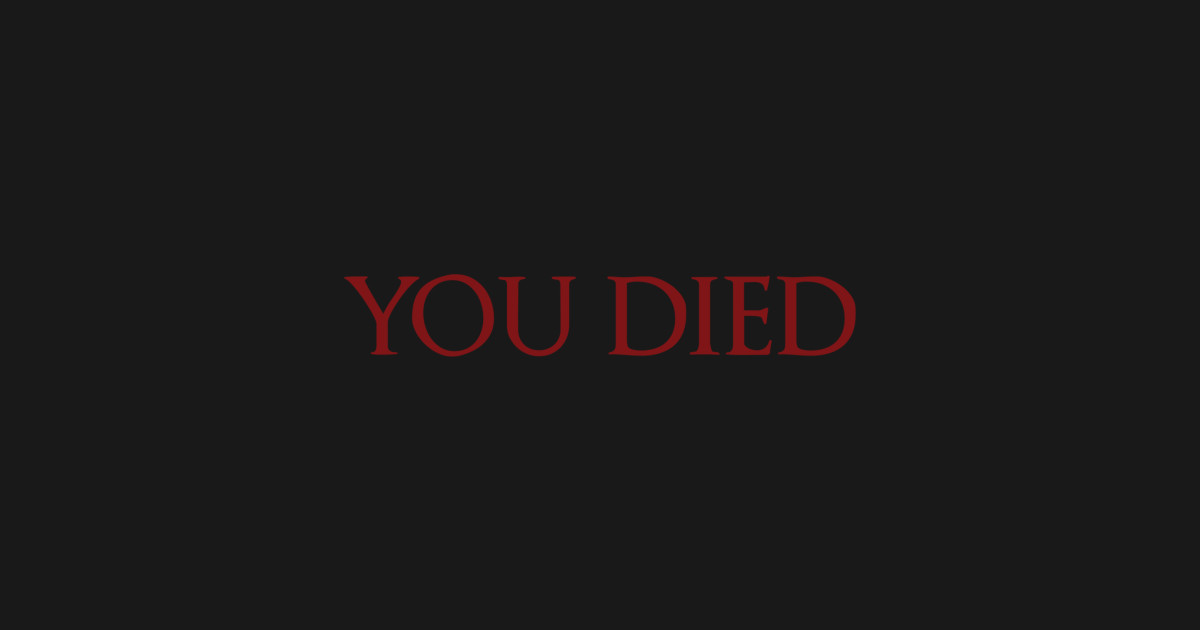
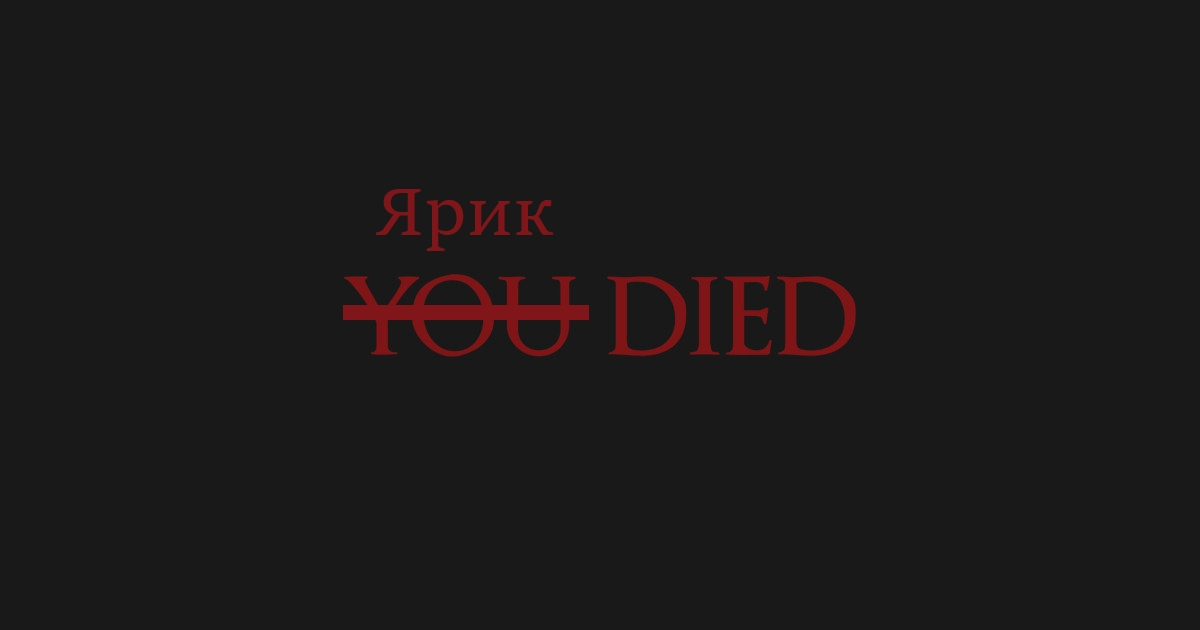
Новый день, новые изменения.

Changed region(s): [[0.3083, 0.3016, 0.4625, 0.4222], [0.2775, 0.4825, 0.4933, 0.5127]]

diff --git a/bot.py b/bot.py
@@ -14,7 +14,7 @@ bot = Bot(token=TOKEN)
 dp = Dispatcher(bot)
 
 f = list(open ('TextScenario.txt', encoding = 'Windows-1251'))
-photo = open('549487_1.jpg', 'rb')
+photo = open('YOU DIED.jpg', 'rb')
 
 
 '''
